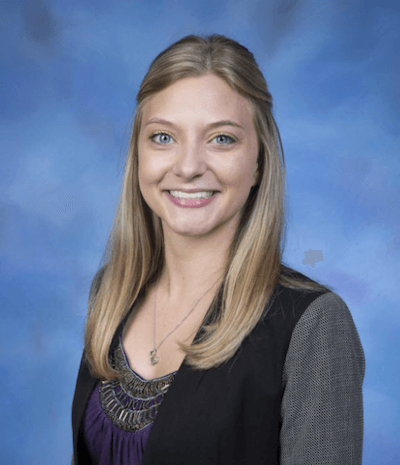
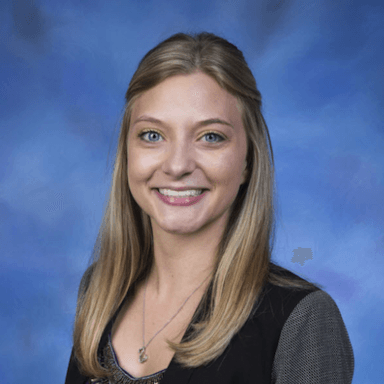
updating site

diff --git a/index.html b/index.html
@@ -7,7 +7,7 @@
 	<meta name="viewport" content="width=device-width, initial-scale=1">
 	
 	<title>Michelle Fisher</title>
-	<style>html{box-sizing:border-box}*,:after,:before{box-sizing:inherit}body,html{min-height:100vh;min-width:100vw;border:none;padding:0;margin:0;display:block;font-family:'Avenir Next',Avenir,'helvetica neue',arial,sans-serif;color:#333}body{background-image:url(/pentagon.png)}h1,h2,h3,h4,h5,h6{font-weight:400}.page-title{border-bottom:2px solid #333}main.main{display:block;width:95%;padding:1em;background-color:#fff;margin-left:auto;margin-right:auto;max-width:800px}main.main header h1{line-height:1;margin-bottom:0}table{margin:1em 0;min-width:300px;width:100%}table th{width:33.3%}table tr{border-top:1px solid #ddd;border-bottom:1px solid #ddd}table td{display:block}table td:first-child{padding-top:.5em}table td:last-child{padding-bottom:.5em}table td,table th{text-align:left}@media (min-width:480px){table td,table th{display:table-cell;padding:.25em .5em}table td:first-child,table th:first-child{padding-left:0}table td:last-child,table th:last-child{padding-right:0}}table{background:#34495e;color:#fff;overflow:hidden}table tr{border-color:#46637f}table td,table th{margin:.5em 1em}@media (min-width:480px){table td,table th{padding:1em!important}}thead{padding:0}thead>tr{border-bottom:2px solid #fff;border-color:#fff;padding:0}thead>tr th{padding:0}
+	<style>html{box-sizing:border-box}*,:after,:before{box-sizing:inherit}body,html{min-height:100vh;min-width:100vw;border:none;padding:0;margin:0;display:block;font-family:'Avenir Next',Avenir,'helvetica neue',arial,sans-serif;color:#333}body{background-image:url(/pentagon.png)}h1,h2,h3,h4,h5,h6{font-weight:400}a{color:#34495e;text-decoration:underline}a:hover{text-decoration:underline}a.icon-link{text-decoration:none}a.icon-link:hover{text-decoration:none}main.main{display:block;position:relative;width:95%;padding:1em;background-color:#fff;margin-left:auto;margin-right:auto;max-width:800px}main.main header h1.page-title{border-bottom:2px solid #333;line-height:1;margin-bottom:8px;margin-top:1.2em;font-size:28px}@media only screen and (min-width:640px){main.main header h1.page-title{font-size:36px}}main.main header img.headshot{width:80px;top:2em;-webkit-filter:grayscale(100%);filter:grayscale(100%);border-radius:50%;position:absolute;right:.5em}@media only screen and (min-width:640px){main.main header img.headshot{width:140px;top:1em}}table{margin:1em 0;min-width:300px;width:100%}table th{width:33.3%}table tr{border-top:1px solid #ddd;border-bottom:1px solid #ddd}table td{display:block}svg#email-icon:hover{fill:#0077b5}svg#linkedin-icon:hover{fill:#0077b5}table td:first-child{padding-top:.5em}table td:last-child{padding-bottom:.5em}address{font-style:normal}.social-links{display:inline}table td,table th{text-align:left}@media (min-width:480px){table td,table th{display:table-cell;padding:.25em .5em}table td:first-child,table th:first-child{padding-left:0}table td:last-child,table th:last-child{padding-right:0}}table{background:#34495e;color:#fff;overflow:hidden}table tr{border-color:#46637f}table td,table th{margin:.5em 1em}@media (min-width:480px){table td,table th{padding:1em!important}}thead{padding:0}thead>tr{border-bottom:2px solid #fff;border-color:#fff;padding:0}thead>tr th{padding:0}
 /*# sourceMappingURL=sourcemaps/style.min.css.map */
 </style>
 </head>
@@ -18,20 +18,45 @@
 		<header>
 			<h1 class="page-title">Michelle Fisher</h1>
 			
-			<img src="" alt="">
+			<img src="/headshot.png" alt="" class="headshot">
+			<address>
+				648 Mitchell Court <br>
+				Gurnee, IL 60031 <br>
+				<a href="tel:8472710612">(847) 271-0612</a>
+			</address>
+			<div class="social-links">
+			<a class="icon-link" href="mailto:mdfisher0612@gmail.com" title="Email me directly for more information." target="_blank"><svg id="email-icon" xmlns="http://www.w3.org/2000/svg" height="22px" width="22px" xmlns:xlink="http://www.w3.org/1999/xlink" version="1.1" x="0px" y="0px" viewBox="0 0 100 100" enable-background="new 0 0 100 100" xml:space="preserve">
+    <path id="email-path" d="M32.28,61.403l18.118,15.046l-0.041,0.035L32.28,61.403z M50.378,72.887L34.016,59.3l16.327,13.618L50.378,72.887z   M95,37.378v54.93H5V37.373l9.622-6.307V16.01h22.97l12.692-8.319l12.53,8.319h22.558v14.976L95,37.378z M85.373,43.321l5.998-5.079  l-5.998-3.982V43.321z M42.566,16.01h15.318l-7.61-5.052L42.566,16.01z M17.349,45.399L34.016,59.3l16.327,13.618l0.036-0.031  l32.268-27.48V32.45v-3.274V18.737H66.922h-4.931H38.406h-4.974H17.349v10.542v3.261V45.399z M8.653,38.24l5.969,4.957v-8.869  L8.653,38.24z M92.273,41.051L50.434,76.478l-0.035-0.029L32.28,61.403L7.727,41.014v48.568h84.547V41.051z M49.797,58.432  c-7.066,0-13.057-5.173-13.057-13.447c0-8.878,6.161-16.549,15.731-16.549c7.498,0,12.54,5.257,12.54,12.454  c0,6.465-3.621,10.259-7.672,10.259c-1.725,0-3.319-1.164-3.188-3.794h-0.173c-1.508,2.543-3.492,3.794-6.077,3.794  c-2.499,0-4.654-2.027-4.654-5.432c0-5.343,4.224-10.212,10.215-10.212c1.851,0,3.49,0.388,4.609,0.905l-1.463,7.8  c-0.648,3.275-0.131,4.785,1.293,4.827c2.197,0.045,4.654-2.887,4.654-7.887c0-6.248-3.749-10.731-10.43-10.731  c-7.024,0-12.928,5.561-12.928,14.307c0,7.197,4.696,11.636,11.075,11.636c2.457,0,4.74-0.517,6.507-1.508l0.69,1.854  C55.098,57.957,52.686,58.432,49.797,58.432z M55.098,38.089c-0.43-0.128-1.164-0.302-2.155-0.302c-3.791,0-6.851,3.576-6.851,7.758  c0,1.896,0.946,3.275,2.845,3.275c2.499,0,4.782-3.188,5.257-5.862L55.098,38.089z" />
+</svg>
+</a>
+			<a class="icon-link" href="https://www.linkedin.com/in/michelle-fisher-a0379a54" target="_blank" title="See my professional profile on LinkedIn."><svg id="linkedin-icon" version="1.1" id="Capa_1" xmlns="http://www.w3.org/2000/svg" xmlns:xlink="http://www.w3.org/1999/xlink" x="0px" y="0px" width="22px" height="22px" viewBox="0 0 486.392 486.392" style="enable-background:new 0 0 486.392 486.392;" xml:space="preserve">
+    <g>
+        <g>
+            <g>
+                <path d="M243.196,0C108.891,0,0,108.891,0,243.196s108.891,243.196,243.196,243.196
+				s243.196-108.891,243.196-243.196C486.392,108.861,377.501,0,243.196,0z M182.397,360.994h-60.799V148.197h60.799V360.994z
+				 M153.882,135.156c-15.747,0-28.484-12.768-28.484-28.515s12.768-28.515,28.484-28.515c15.747,0.03,28.515,12.798,28.515,28.515
+				C182.397,122.388,169.629,135.156,153.882,135.156z M395.193,360.994h-60.799V229.425c0-15.413-4.408-26.204-23.347-26.204
+				c-31.403,0-37.452,26.204-37.452,26.204v131.569h-60.799V148.197h60.799v20.337c8.694-6.657,30.399-20.307,60.799-20.307
+				c19.699,0,60.799,11.795,60.799,83.051V360.994z" />
+            </g>
+        </g>
+    </g>
+</svg>
+</a>
+			</div>
 		</header>
     
 
 <h2 id="profile">Profile</h2>
 
-<p>Marketing professional with 2 years experience</p>
+<p>Marketing professional with 2 years experience working in the nonprofit sector.</p>
 
 <h2 id="experience">Experience</h2>
 
 <h2 id="hobbies">Hobbies</h2>
 
 <ul>
-<li>Work</li>
 <li>Hiking</li>
 <li>Yoga</li>
 <li>Meditation</li>
@@ -64,6 +89,13 @@
 </tr>
 </tbody>
 </table>
+
+<h2 id="education">Education</h2>
+
+<ul>
+<li>BS Marketing, <a href="https://www.neiu.edu/" target="_blank">Northeastern Illinois University</a> (in Progress)&mdash;2018</li>
+<li>AAS Applied Science (Medical Imaging), <a href="http://www.clcillinois.edu/" target="_blank">College of Lake County</a>&mdash;2012</li>
+</ul>
 
 </main>
 

diff --git a/assets/css/style.min.css b/assets/css/style.min.css
@@ -1,0 +1,2 @@
+html{box-sizing:border-box}*,:after,:before{box-sizing:inherit}body,html{min-height:100vh;min-width:100vw;border:none;padding:0;margin:0;display:block;font-family:'Avenir Next',Avenir,'helvetica neue',arial,sans-serif;color:#333}body{background-image:url(/pentagon.png)}h1,h2,h3,h4,h5,h6{font-weight:400}a{color:#34495e;text-decoration:underline}a:hover{text-decoration:underline}a.icon-link{text-decoration:none}a.icon-link:hover{text-decoration:none}main.main{display:block;position:relative;width:95%;padding:1em;background-color:#fff;margin-left:auto;margin-right:auto;max-width:800px}main.main header h1.page-title{border-bottom:2px solid #333;line-height:1;margin-bottom:8px;margin-top:1.2em;font-size:28px}@media only screen and (min-width:640px){main.main header h1.page-title{font-size:36px}}main.main header img.headshot{width:80px;top:2em;-webkit-filter:grayscale(100%);filter:grayscale(100%);border-radius:50%;position:absolute;right:.5em}@media only screen and (min-width:640px){main.main header img.headshot{width:140px;top:1em}}table{margin:1em 0;min-width:300px;width:100%}table th{width:33.3%}table tr{border-top:1px solid #ddd;border-bottom:1px solid #ddd}table td{display:block}svg#email-icon:hover{fill:#0077b5}svg#linkedin-icon:hover{fill:#0077b5}table td:first-child{padding-top:.5em}table td:last-child{padding-bottom:.5em}address{font-style:normal}.social-links{display:inline}table td,table th{text-align:left}@media (min-width:480px){table td,table th{display:table-cell;padding:.25em .5em}table td:first-child,table th:first-child{padding-left:0}table td:last-child,table th:last-child{padding-right:0}}table{background:#34495e;color:#fff;overflow:hidden}table tr{border-color:#46637f}table td,table th{margin:.5em 1em}@media (min-width:480px){table td,table th{padding:1em!important}}thead{padding:0}thead>tr{border-bottom:2px solid #fff;border-color:#fff;padding:0}thead>tr th{padding:0}
+/*# sourceMappingURL=sourcemaps/style.min.css.map */
